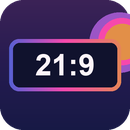
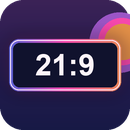
Brighten neon border on ultrawide artwork

Changed region(s): [[0.0923, 0.2154, 1.0, 0.6769], [0.0615, 0.3385, 0.8923, 0.7077]]

diff --git a/tools/gen-branding.py b/tools/gen-branding.py
@@ -67,12 +67,19 @@ def emblem(size=400, transparent=False):
         draw.ellipse(box(321, 73, 432, 184), fill="#e28f48")
     # Wide screen silhouette: the 2.35:1 frame is the product mark.
     frame_box = box(28, 120, 372, 280)
+    glow = Image.new("RGBA", (size, size))
+    glow_draw = ImageDraw.Draw(glow)
+    glow_draw.rounded_rectangle(frame_box, radius=round(30 * scale), outline=(246, 72, 172, 235), width=max(1, round(19 * scale)))
+    glow = glow.filter(ImageFilter.GaussianBlur(max(1, round(25 * scale))))
+    canvas = Image.alpha_composite(canvas, glow)
+    draw = ImageDraw.Draw(canvas)
     frame_mask = Image.new("L", (size, size))
     ImageDraw.Draw(frame_mask).rounded_rectangle(frame_box, radius=round(30 * scale), fill=255)
     colorful = gradient((size, size), PALETTE).convert("RGBA")
     canvas.paste(colorful, (0, 0), frame_mask)
     draw = ImageDraw.Draw(canvas)
     draw.rounded_rectangle(box(40, 132, 360, 268), radius=round(20 * scale), fill=INK)
+    draw.rounded_rectangle(box(31, 123, 369, 277), radius=round(27 * scale), outline=(255, 222, 245, 190), width=max(1, round(3 * scale)))
     font = ImageFont.truetype(FONT, round(92 * scale))
     text_center(draw, box(40, 135, 360, 265), "21:9", font, "#fff5fa")
     return canvas
